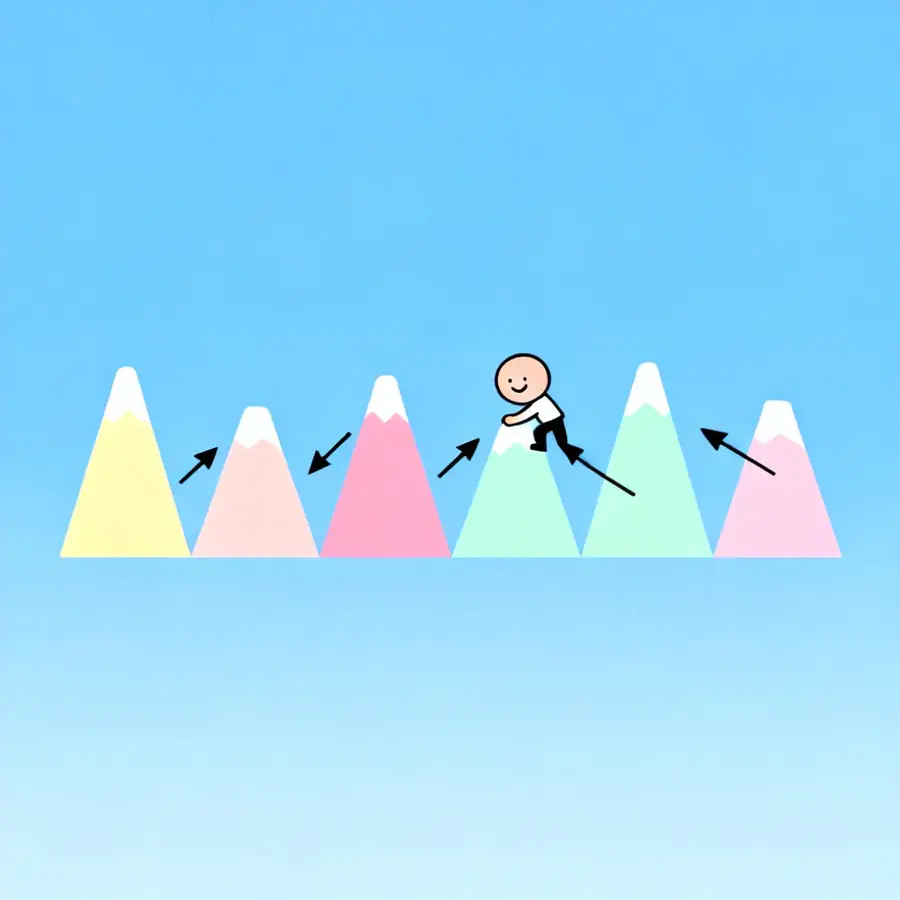
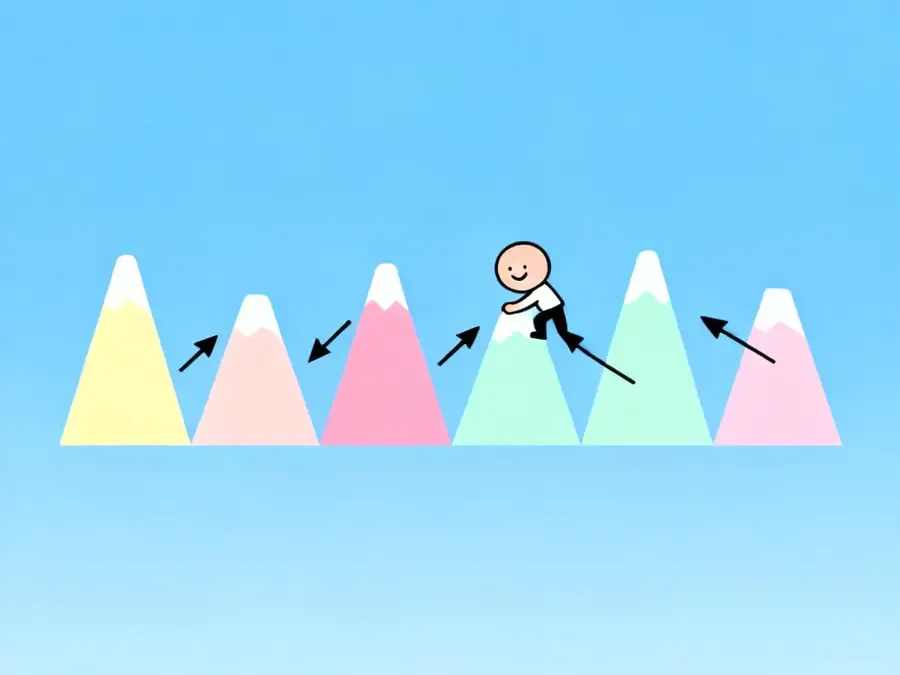
feat: 优化Footer性能和Navbar透明度，修复极光背景显示问题
主要改进：
- Footer组件从客户端改为服务端渲染，显著提升加载性能
- 简化Navbar滚动逻辑，恢复完全透明背景效果
- 修复极光背景与Navbar间的间隙问题，实现无缝视觉效果
- 优化AuroraBackground布局，向上延伸覆盖Navbar下方区域
- Cantonese Translator页面图片从1:1剪裁为4:3比例，提升视觉体验

🤖 Generated with [Claude Code](https://claude.com/claude-code)

diff --git a/src/components/layout/footer.tsx b/src/components/layout/footer.tsx
@@ -1,18 +1,21 @@
-'use client';
-
 import Container from '@/components/layout/container';
 import { Logo } from '@/components/layout/logo';
-import { useFooterLinks } from '@/config/footer-config';
-import { useSocialLinks } from '@/config/social-config';
+import { getFooterLinks } from '@/config/footer-config';
+import { getSocialLinks } from '@/config/social-config';
 import { LocaleLink } from '@/i18n/navigation';
 import { cn } from '@/lib/utils';
-import { useTranslations } from 'next-intl';
+import { getTranslations } from 'next-intl/server';
 import type React from 'react';
 
-export function Footer({ className }: React.HTMLAttributes<HTMLElement>) {
-  const t = useTranslations();
-  const footerLinks = useFooterLinks();
-  const socialLinks = useSocialLinks();
+interface FooterProps extends React.HTMLAttributes<HTMLElement> {
+  locale: string;
+}
+
+export async function Footer({ className, locale }: FooterProps) {
+  const t = await getTranslations({ locale, namespace: 'Marketing.footer' });
+  const tRoot = await getTranslations({ locale });
+  const footerLinks = getFooterLinks(t);
+  const socialLinks = getSocialLinks(t);
 
   return (
     <footer className={cn('bg-gray-900', className)}>
@@ -24,19 +27,19 @@ export function Footer({ className }: React.HTMLAttributes<HTMLElement>) {
               <div className="items-center space-x-2 flex">
                 <Logo />
                 <span className="text-xl font-semibold text-gray-50">
-                  {t('Metadata.name')}
+                  {tRoot('name')}
                 </span>
               </div>
 
               {/* tagline */}
               <p className="text-gray-300 text-base py-2">
-                {t('Marketing.footer.tagline')}
+                {t('tagline')}
               </p>
             </div>
           </div>
 
           {/* footer links */}
-          <div className="flex flex-wrap gap-8 md:gap-16 md:flex-1 md:justify-end">
+          <div className="flex flex-wrap gap-8 md:gap-12 md:flex-1 md:justify-end">
             {footerLinks?.map((section) => (
               <div key={section.title} className="flex flex-col items-start">
                 <span className="text-sm font-semibold uppercase text-gray-50">
@@ -101,7 +104,7 @@ export function Footer({ className }: React.HTMLAttributes<HTMLElement>) {
       <div className="border-t border-gray-700 py-8">
         <Container className="px-4 flex items-center justify-center gap-x-4">
           <span className="text-gray-300 text-sm text-center">
-            &copy; {new Date().getFullYear()} {t('Metadata.name')} All Rights
+            &copy; {new Date().getFullYear()} {tRoot('name')} All Rights
             Reserved.
           </span>
         </Container>

diff --git a/src/components/layout/navbar.tsx b/src/components/layout/navbar.tsx
@@ -128,7 +128,7 @@ const customNavigationMenuTriggerStyle = cn(
 export function Navbar({ scroll }: NavBarProps) {
   const t = useTranslations();
   const locale = useLocale();
-  const { isScrolled, isScrollingUp, hideNavbar, scrollY } = useScroll(50);
+  const scrolled = useScroll(50);
   const menuLinks = useNavbarLinks();
   const localePathname = useLocalePathname();
   const [activeMenu, setActiveMenu] = useState<string | undefined>();
@@ -211,35 +211,13 @@ export function Navbar({ scroll }: NavBarProps) {
 
       <section
         className={cn(
-          'fixed inset-x-0 top-0 z-50 transition-all duration-500 ease-in-out',
-          // 磁吸效果 - 根据滚动状态调整transform
-          hideNavbar
-            ? '-translate-y-full' // 隐藏navbar
-            : scrollY > 100
-              ? 'translate-y-0' // 磁吸在顶部
-              : 'translate-y-0', // 初始位置
-
-          // 背景和边框效果
-          scroll
-            ? isScrolled
-              ? 'bg-white/95 dark:bg-black/95 backdrop-blur-xl border-b border-gray-200/50 dark:border-gray-700/50 shadow-lg'
-              : 'bg-white/90 dark:bg-black/90 backdrop-blur-md border-b border-gray-100/30 dark:border-gray-800/30'
-            : 'bg-transparent',
-
-          // 滚动时的特殊效果
-          isScrollingUp && !hideNavbar && 'shadow-2xl'
+          'sticky inset-x-0 top-0 z-40 py-4 transition-all duration-300 bg-transparent',
+          scrolled && scroll && 'bg-white/80 dark:bg-black/80 backdrop-blur-lg border-b border-gray-200/50 dark:border-gray-700/50 shadow-sm'
         )}
-        style={{
-          // 平滑过渡效果
-          transitionProperty:
-            'transform, background-color, backdrop-filter, border-color, box-shadow',
-          transitionTimingFunction: 'cubic-bezier(0.4, 0, 0.2, 1)',
-          transitionDuration: hideNavbar ? '300ms' : '500ms',
-        }}
       >
-        <Container className="px-4 h-16">
+        <Container className="px-4">
           {/* desktop navbar */}
-          <nav className="hidden lg:flex lg:items-center lg:w-full h-full">
+          <nav className="hidden lg:flex lg:items-center lg:w-full">
             {/* logo and name */}
             <div className="flex items-center mr-8">
               <LocaleLink href="/" className="flex items-center space-x-2">

diff --git a/src/hooks/use-scroll.ts b/src/hooks/use-scroll.ts
@@ -1,53 +1,18 @@
 import { useEffect, useState } from 'react';
 
 export function useScroll(threshold = 10) {
-  const [isScrolled, setIsScrolled] = useState(false);
-  const [isScrollingUp, setIsScrollingUp] = useState(false);
-  const [lastScrollY, setLastScrollY] = useState(0);
-  const [hideNavbar, setHideNavbar] = useState(false);
+  const [scrolled, setScrolled] = useState(false);
 
   useEffect(() => {
-    let ticking = false;
-
     const handleScroll = () => {
-      if (!ticking) {
-        window.requestAnimationFrame(() => {
-          const currentScrollY = window.scrollY;
-
-          // 判断是否超过阈值
-          setIsScrolled(currentScrollY > threshold);
-
-          // 判断滚动方向
-          if (currentScrollY > lastScrollY && currentScrollY > 100) {
-            // 向下滚动且超过100px时隐藏navbar
-            setIsScrollingUp(false);
-            setHideNavbar(true);
-          } else if (currentScrollY < lastScrollY) {
-            // 向上滚动时显示navbar
-            setIsScrollingUp(true);
-            setHideNavbar(false);
-          }
-
-          // 在顶部时始终显示
-          if (currentScrollY <= 10) {
-            setHideNavbar(false);
-          }
-
-          setLastScrollY(currentScrollY);
-          ticking = false;
-        });
-        ticking = true;
-      }
+      setScrolled(window.scrollY > threshold);
     };
 
     window.addEventListener('scroll', handleScroll, { passive: true });
-    return () => window.removeEventListener('scroll', handleScroll);
-  }, [threshold, lastScrollY]);
+    handleScroll(); // 初始检查
 
-  return {
-    isScrolled,
-    isScrollingUp,
-    hideNavbar,
-    scrollY: lastScrollY,
-  };
+    return () => window.removeEventListener('scroll', handleScroll);
+  }, [threshold]);
+
+  return scrolled;
 }

diff --git a/src/config/footer-config.tsx b/src/config/footer-config.tsx
@@ -1,8 +1,5 @@
-'use client';
-
 import { Routes } from '@/routes';
 import type { NestedMenuItem } from '@/types';
-import { useTranslations } from 'next-intl';
 
 type FooterLink = {
   key: string;
@@ -83,7 +80,7 @@ const COMPANY_LINKS: FooterLink[] = [
 const LEGAL_LINKS: FooterLink[] = [];
 
 function mapFooterItems(
-  t: ReturnType<typeof useTranslations>,
+  t: any,
   section: string,
   links: FooterLink[],
   hidden: Set<string> = new Set()
@@ -97,9 +94,7 @@ function mapFooterItems(
     }));
 }
 
-export function useFooterLinks(): NestedMenuItem[] {
-  const t = useTranslations('Marketing.footer');
-
+export function getFooterLinks(t: any): NestedMenuItem[] {
   const footerSections = [
     {
       title: t('funTranslate.title'),

diff --git a/src/app/[locale]/(marketing)/layout.tsx b/src/app/[locale]/(marketing)/layout.tsx
@@ -4,12 +4,22 @@ import { Footer } from '@/components/layout/footer';
 import { Navbar } from '@/components/layout/navbar';
 import type { ReactNode } from 'react';
 
-export default function MarketingLayout({ children }: { children: ReactNode }) {
+interface MarketingLayoutProps {
+  children: ReactNode;
+  params: Promise<{ locale: string }>;
+}
+
+export default async function MarketingLayout({
+  children,
+  params
+}: MarketingLayoutProps) {
+  const { locale } = await params;
+
   return (
     <div className="flex flex-col min-h-screen">
       <Navbar scroll={true} />
       <main className="flex-1 pt-16">{children}</main>
-      <Footer />
+      <Footer locale={locale} />
       <BackToTop />
     </div>
   );

diff --git a/src/config/social-config.tsx b/src/config/social-config.tsx
@@ -1,5 +1,3 @@
-'use client';
-
 import { BlueskyIcon } from '@/components/icons/bluesky';
 import { DiscordIcon } from '@/components/icons/discord';
 import { FacebookIcon } from '@/components/icons/facebook';
@@ -18,11 +16,9 @@ import { websiteConfig } from './website';
 /**
  * Get social config
  *
- * NOTICE: used in client components only
- *
  * @returns The social config
  */
-export function useSocialLinks(): MenuItem[] {
+export function getSocialLinks(t: any): MenuItem[] {
   const socialLinks: MenuItem[] = [];
 
   if (websiteConfig.metadata.social?.twitter) {

diff --git a/src/app/[locale]/(marketing)/(pages)/dog-translator/page.tsx b/src/app/[locale]/(marketing)/(pages)/dog-translator/page.tsx
@@ -67,7 +67,7 @@ export default async function DogTranslatorPage(props: DogTranslatorPageProps) {
       />
       <div className="flex flex-col">
         {/* Hero Section */}
-        <AuroraBackground className="bg-white dark:bg-zinc-900 !pt-12 !h-auto">
+        <AuroraBackground className="bg-white dark:bg-zinc-900 !h-auto -mt-16 pt-16">
           <div className="container max-w-7xl mx-auto px-4 text-center relative z-10 pb-8">
             <h1 className="text-4xl md:text-5xl lg:text-6xl font-bold mb-6">
               {t('hero.title')}

diff --git a/src/components/templates/SimpleToolTemplate.tsx b/src/components/templates/SimpleToolTemplate.tsx
@@ -109,7 +109,7 @@ export function createHeroSection({
   avatars?: string[];
 }) {
   return (
-    <AuroraBackground className="bg-white dark:bg-zinc-900 !pt-12 !h-auto">
+    <AuroraBackground className="bg-white dark:bg-zinc-900 !h-auto -mt-16 pt-16">
       <div className="container max-w-7xl mx-auto px-4 text-center relative z-10 pb-8">
         <h1 className="text-4xl md:text-5xl lg:text-6xl font-bold mb-6">
           {title}

diff --git a/src/components/ui/aurora-background.tsx b/src/components/ui/aurora-background.tsx
@@ -22,7 +22,7 @@ export const AuroraBackground = ({
         )}
         {...props}
       >
-        <div className="absolute inset-0 -top-18 overflow-hidden">
+        <div className="absolute inset-0 -top-32 overflow-hidden">
           <div
             //   I'm sorry but this is what peak developer performance looks like // trigger warning
             className={cn(
